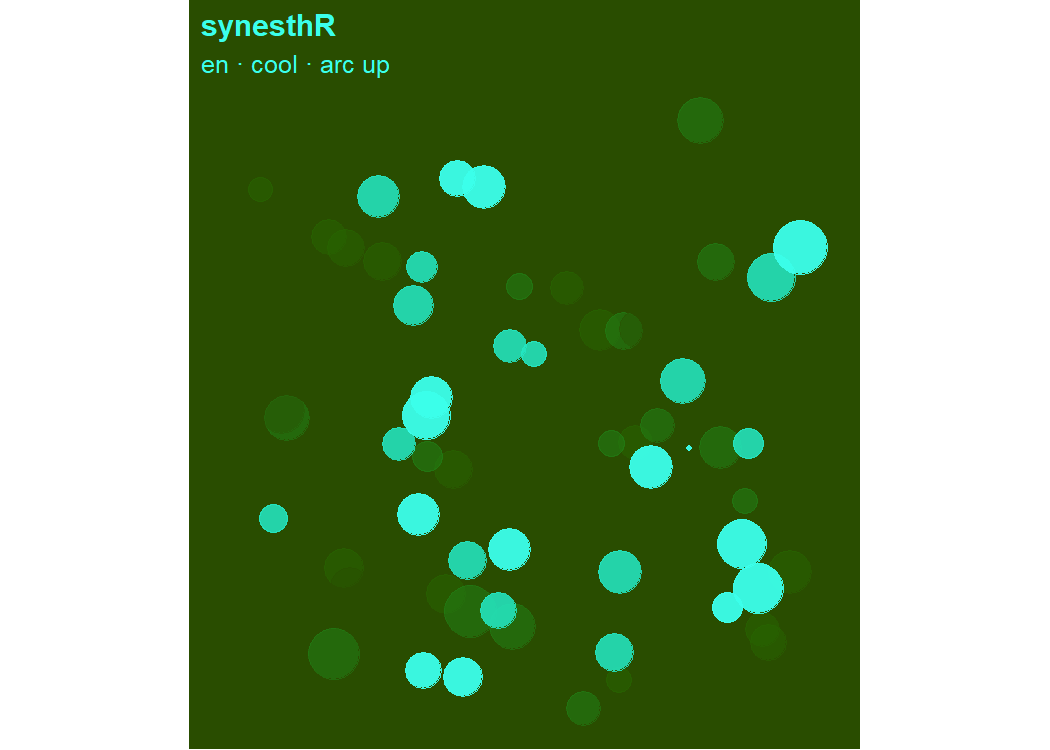
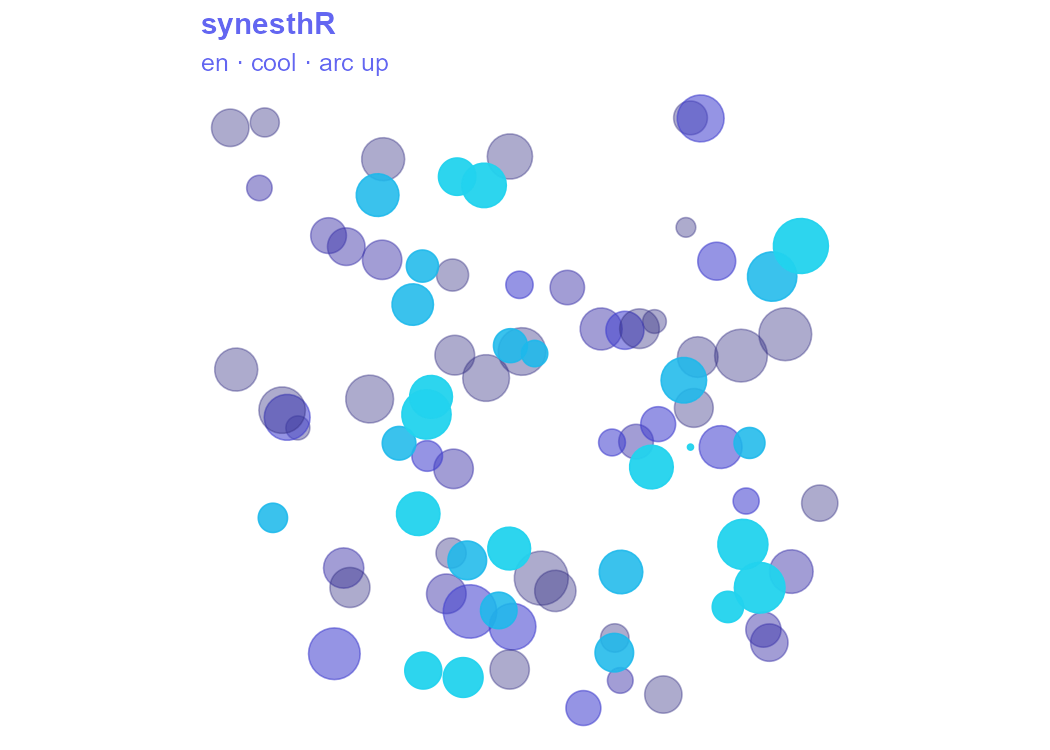
Restyle Usage paint to transparent blue palette
Render the Usage example image on a transparent canvas in the same
Hugo Coder-flavoured blue palette as the workflow banner, by restyling
the ggplot syn_paint() returns (scale_colour_gradientn + transparent
theme). The shown code reproduces the figure on re-render.

diff --git a/README.md b/README.md
@@ -45,11 +45,18 @@ score <- syn_score(text)
 score
 #> <prosody_score> — 6 sentences, lang "en"
 
-# the image and the audio are two views of the same score
-syn_paint(score)
+# syn_paint() returns a ggplot, so it restyles like any other — here in the
+# site's blue palette on a transparent canvas
+blues <- c("#312E81", "#4338CA", "#2563EB", "#0EA5E9", "#22D3EE")
+syn_paint(score) +
+  ggplot2::scale_colour_gradientn(colours = blues) +
+  ggplot2::theme(text             = ggplot2::element_text(colour = "#6366F1"),
+                 plot.title       = ggplot2::element_text(colour = "#6366F1", face = "bold"),
+                 plot.background  = ggplot2::element_rect(fill = NA, colour = NA),
+                 panel.background = ggplot2::element_rect(fill = NA, colour = NA))
 ```
 
-<img src="man/figures/README-demo-1.png" alt="A generative image rendered from the example text." width="100%" />
+<img src="man/figures/README-demo-1.png" alt="A generative image rendered from the example text, restyled in the site's blue palette." width="100%" />
 
 ``` r
 wav <- syn_write_wav(score, tempfile(fileext = ".wav"))